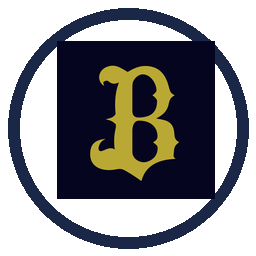
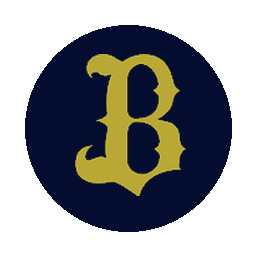
fix: normalize Buffaloes chart badge

diff --git a/skills/hawks-magic-chart/assets/SOURCE.md b/skills/hawks-magic-chart/assets/SOURCE.md
@@ -16,7 +16,7 @@ Processing applied here:
 - crop transparent outer padding;
 - preserve the vector-rendered logo shapes;
 - normalize opponent assets to a 256×256 transparent canvas and equal-size circular frame;
-- apply the confirmed optical correction toward upper-right for M, E, and B;
+- apply the confirmed optical correction toward upper-right for M, E, and B;\n- normalize `B.png` as a solid Buffaloes navy circle with the original gold B monogram centered inside it, matching the filled-circle F/L/M/E badge system;
 - keep the Hawks SH mark on a transparent 256×256 canvas for title placement.
 
 The marks may be protected trademarks even where a source page describes a simple text logo as public domain. Keep this repository private and confirm the relevant trademark and usage rules before commercial redistribution.
